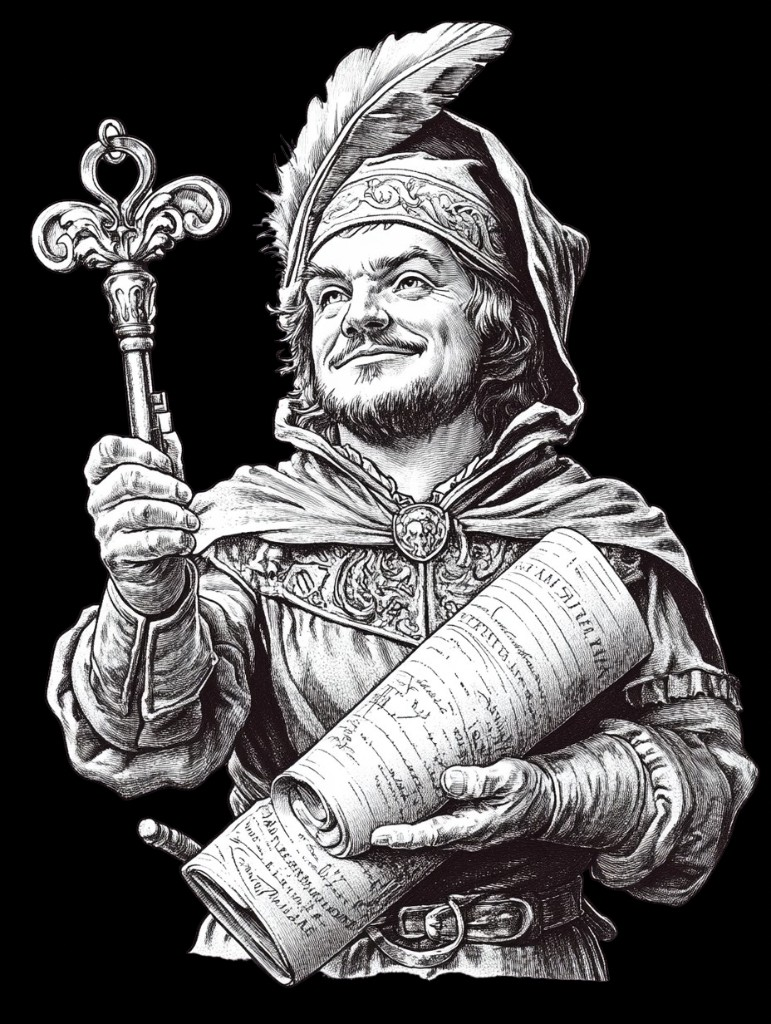
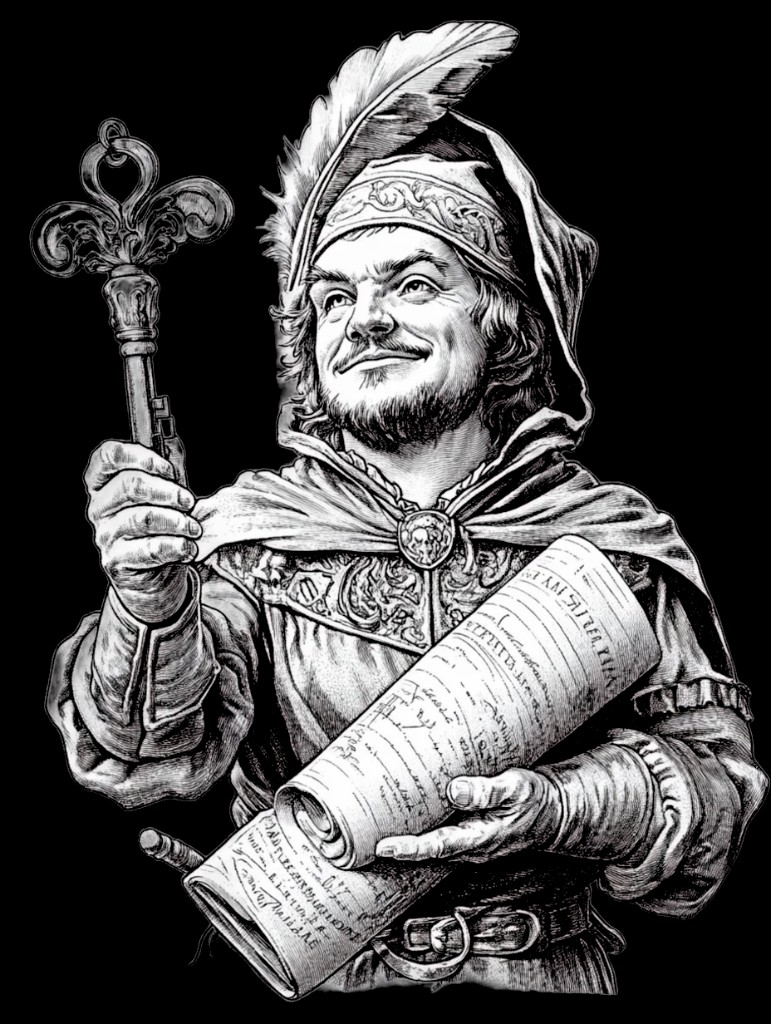
design update

diff --git a/src/app/globals.css b/src/app/globals.css
@@ -344,11 +344,11 @@ h3 {
 .hero-illustration-img {
   position: absolute;
   inset: 0;
-  background-size: 135%;
-  background-position: bottom right;
+  background-size: 100% auto;
+  background-position: 100% 50%;
   background-repeat: no-repeat;
   filter: grayscale(100%) brightness(0.85) contrast(1.3) sepia(100%) hue-rotate(165deg) saturate(3.5) brightness(1.15);
-  opacity: 0.88;
+  opacity: 0.92;
 }
 /* Stitched texture overlay — very subtle */
 .hero-illustration-stitch {
